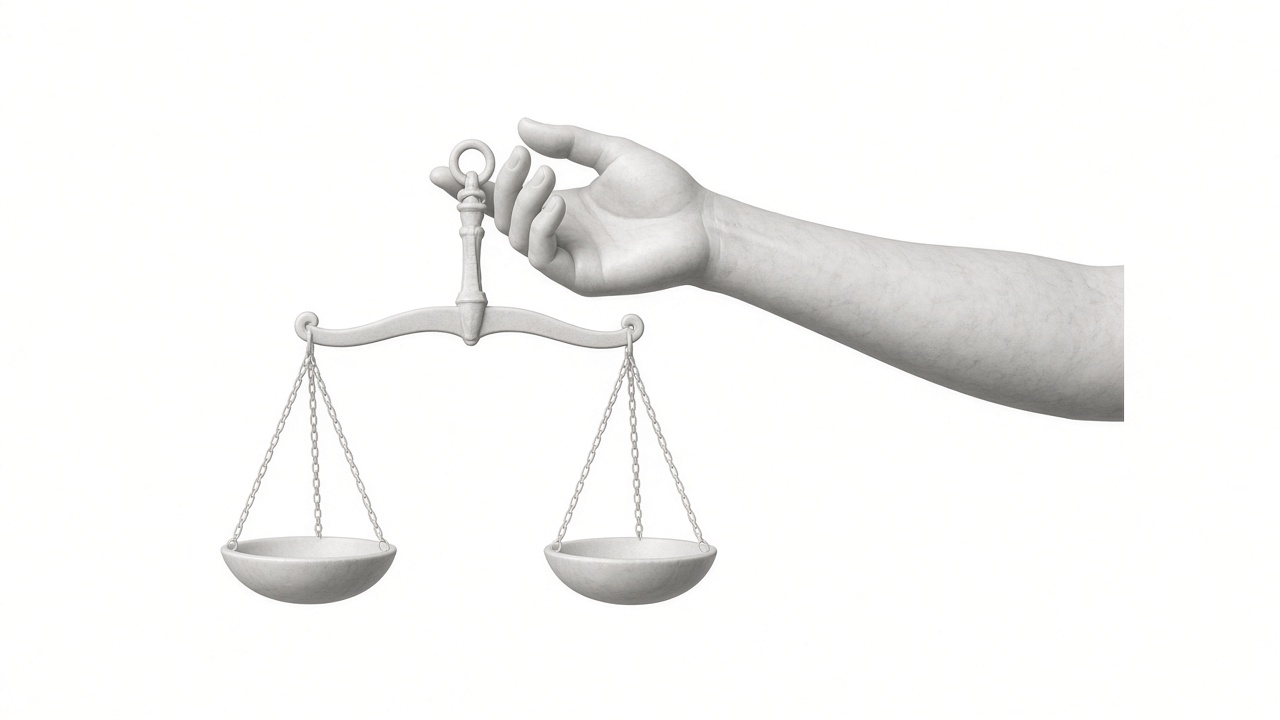
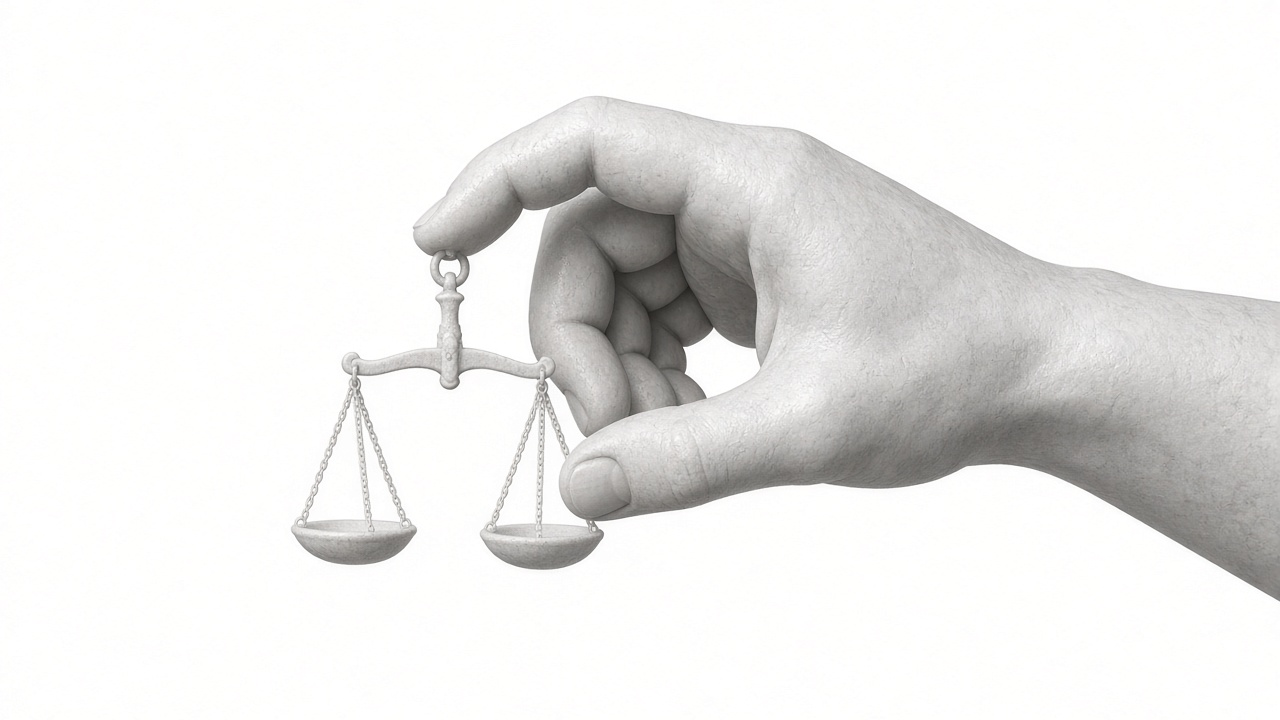
Why Synergy heroes: larger, size-matched crops, new quill and scale renders, soft box edges

Changed region(s): [[0.1562, 0.1222, 1.0, 0.8556]]

diff --git a/src/routes/why-synergy.technology.tsx b/src/routes/why-synergy.technology.tsx
@@ -680,13 +680,18 @@ function TechnologyPage() {
         <HalftoneHandStill
           src={whyTechnologyAsset.url}
           contrast={1.7}
-          cropX={0}
-          cropW={1}
-          cropY={0}
-          cropH={1}
+          cropX={0.198}
+          cropW={0.775}
+          cropY={0.088}
+          cropH={0.79}
           pitch={6}
           className="pointer-events-none absolute select-none"
           style={{
+            // Soften the box edges the subject bleeds through (left arm, lower arm).
+            maskImage: "linear-gradient(to right, transparent 0, #000 14%), linear-gradient(to top, transparent 0, #000 14%)",
+            WebkitMaskImage: "linear-gradient(to right, transparent 0, #000 14%), linear-gradient(to top, transparent 0, #000 14%)",
+            maskComposite: "intersect",
+            WebkitMaskComposite: "source-in",
             top: fluid(115, 66),
             left: fluid(780, 420),
             width: fluid(741, 400),

diff --git a/src/routes/why-synergy.business-impact.tsx b/src/routes/why-synergy.business-impact.tsx
@@ -414,13 +414,18 @@ function BusinessImpactPage() {
         <HalftoneHandStill
           src={whyImpactAsset.url}
           contrast={1.7}
-          cropX={0}
-          cropW={1}
-          cropY={0}
-          cropH={1}
+          cropX={0.17}
+          cropW={0.775}
+          cropY={0.126}
+          cropH={0.79}
           pitch={6}
           className="pointer-events-none absolute select-none"
           style={{
+            // Soften the box edges the subject bleeds through (left arm, lower arm).
+            maskImage: "linear-gradient(to right, transparent 0, #000 14%), linear-gradient(to top, transparent 0, #000 14%)",
+            WebkitMaskImage: "linear-gradient(to right, transparent 0, #000 14%), linear-gradient(to top, transparent 0, #000 14%)",
+            maskComposite: "intersect",
+            WebkitMaskComposite: "source-in",
             top: fluid(115, 66),
             left: fluid(780, 420),
             width: fluid(741, 400),

diff --git a/src/routes/why-synergy.security.tsx b/src/routes/why-synergy.security.tsx
@@ -255,13 +255,18 @@ function SecurityPage() {
         <HalftoneHandStill
           src={whySecurityAsset.url}
           contrast={1.7}
-          cropX={0}
-          cropW={1}
-          cropY={0}
-          cropH={1}
+          cropX={0.34}
+          cropW={0.657}
+          cropY={0.185}
+          cropH={0.67}
           pitch={6}
           className="pointer-events-none absolute select-none"
           style={{
+            // Soften the box edges the subject bleeds through (left arm, lower arm).
+            maskImage: "linear-gradient(to right, transparent 0, #000 14%), linear-gradient(to top, transparent 0, #000 14%)",
+            WebkitMaskImage: "linear-gradient(to right, transparent 0, #000 14%), linear-gradient(to top, transparent 0, #000 14%)",
+            maskComposite: "intersect",
+            WebkitMaskComposite: "source-in",
             top: fluid(115, 66),
             left: fluid(780, 420),
             width: fluid(741, 400),

diff --git a/src/routes/why-synergy.stories.tsx b/src/routes/why-synergy.stories.tsx
@@ -598,13 +598,18 @@ function StoriesPage() {
         <HalftoneHandStill
           src={whyStoriesAsset.url}
           contrast={1.7}
-          cropX={0}
-          cropW={1}
-          cropY={0}
-          cropH={1}
+          cropX={0.148}
+          cropW={0.765}
+          cropY={0.1}
+          cropH={0.78}
           pitch={6}
           className="pointer-events-none absolute select-none"
           style={{
+            // Soften the box edges the subject bleeds through (left arm, lower arm).
+            maskImage: "linear-gradient(to right, transparent 0, #000 14%), linear-gradient(to top, transparent 0, #000 14%)",
+            WebkitMaskImage: "linear-gradient(to right, transparent 0, #000 14%), linear-gradient(to top, transparent 0, #000 14%)",
+            maskComposite: "intersect",
+            WebkitMaskComposite: "source-in",
             top: fluid(115, 66),
             left: fluid(780, 420),
             width: fluid(741, 400),
